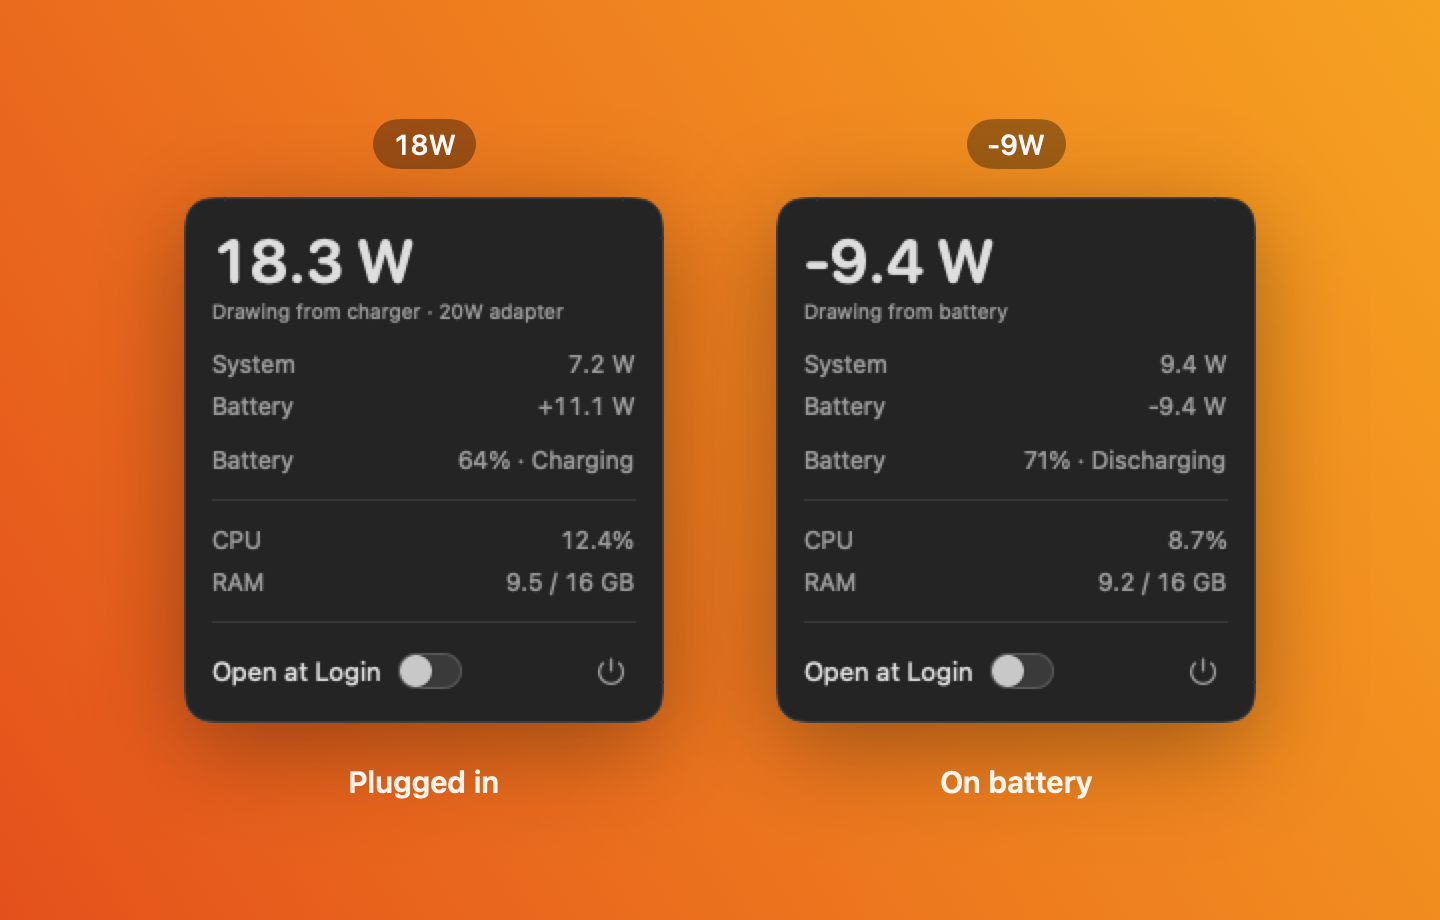
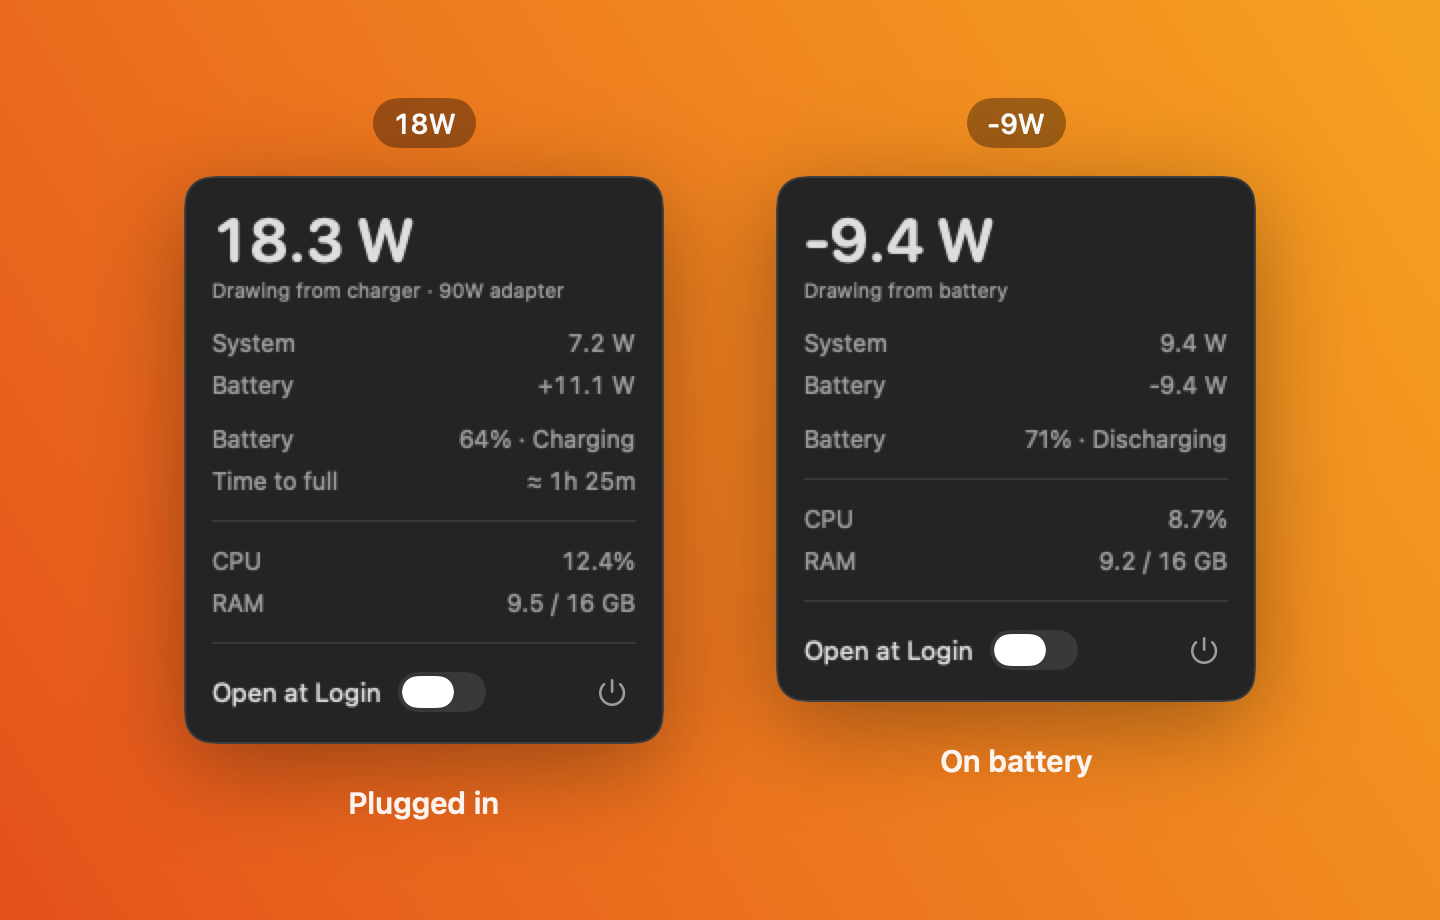
Release MacPower 1.2.0 with charging estimates

diff --git a/Sources/MacPower/PowerMonitor.swift b/Sources/MacPower/PowerMonitor.swift
@@ -13,6 +13,7 @@ struct PowerSnapshot: Equatable {
     var isCharging = false
     var isFullyCharged = false
     var batteryPercent: Int?
+    var minutesToFull: Int?
 
     /// Live power drawn from the charger.
     var adapterWatts: Double?
@@ -113,11 +114,26 @@ final class PowerMonitor: ObservableObject {
         snapshot.memoryUsedBytes = Self.readMemoryUsedBytes()
         guard let properties = Self.batteryProperties() else { return snapshot }
 
+        let powerSources = IOPSCopyPowerSourcesInfo()?.takeRetainedValue()
         snapshot.hasBattery = (properties["BatteryInstalled"] as? Bool) ?? true
-        snapshot.isPluggedIn = Self.isOnExternalPower() ?? (properties["ExternalConnected"] as? Bool) ?? false
+        snapshot.isPluggedIn = powerSources.flatMap(Self.isOnExternalPower)
+            ?? (properties["ExternalConnected"] as? Bool) ?? false
         snapshot.isCharging = (properties["IsCharging"] as? Bool) ?? false
         snapshot.isFullyCharged = (properties["FullyCharged"] as? Bool) ?? false
-        snapshot.batteryPercent = (properties["CurrentCapacity"] as? NSNumber)?.intValue
+        if let current = properties["CurrentCapacity"] as? NSNumber {
+            // Some Intel Macs report capacity in mAh instead of percent.
+            let maximum = (properties["MaxCapacity"] as? NSNumber)?.doubleValue ?? 100
+            if maximum > 0 {
+                snapshot.batteryPercent = Int((min(max(current.doubleValue / maximum, 0), 1) * 100).rounded())
+            }
+        }
+
+        if snapshot.hasBattery, snapshot.isPluggedIn, snapshot.isCharging, !snapshot.isFullyCharged {
+            snapshot.minutesToFull = Self.minutesToFull(
+                systemEstimate: powerSources.flatMap(Self.systemMinutesToFull),
+                properties: properties
+            )
+        }
 
         if let adapter = properties["AdapterDetails"] as? [String: Any] {
             snapshot.adapterRatedWatts = (adapter["Watts"] as? NSNumber)?.intValue
@@ -230,9 +246,47 @@ final class PowerMonitor: ObservableObject {
     /// Whether the Mac is running on a charger right now. Unlike the battery
     /// registry entry, this is updated the moment the cable moves.
     private static func isOnExternalPower() -> Bool? {
-        guard let info = IOPSCopyPowerSourcesInfo()?.takeRetainedValue(),
-              let type = IOPSGetProvidingPowerSourceType(info)?.takeUnretainedValue() as String? else { return nil }
+        let info = IOPSCopyPowerSourcesInfo()?.takeRetainedValue()
+        return info.flatMap(Self.isOnExternalPower)
+    }
+
+    private static func isOnExternalPower(_ info: CFTypeRef) -> Bool? {
+        guard let type = IOPSGetProvidingPowerSourceType(info)?.takeUnretainedValue() as String? else { return nil }
         return type == kIOPSACPowerValue
+    }
+
+    private static func systemMinutesToFull(_ info: CFTypeRef) -> Int? {
+        guard let sources = IOPSCopyPowerSourcesList(info)?.takeRetainedValue() as? [CFTypeRef] else { return nil }
+        for source in sources {
+            guard let description = IOPSGetPowerSourceDescription(info, source)?.takeUnretainedValue() as? [String: Any],
+                  description[kIOPSTypeKey] as? String == kIOPSInternalBatteryType,
+                  description[kIOPSIsChargingKey] as? Bool == true else { continue }
+            return (description[kIOPSTimeToFullChargeKey] as? NSNumber)?.intValue
+        }
+        return nil
+    }
+
+    private static func minutesToFull(systemEstimate: Int?, properties: [String: Any]) -> Int? {
+        if let systemEstimate, systemEstimate >= 0 { return systemEstimate }
+
+        // Raw mAh values live inside BatteryData on newer macOS versions.
+        let batteryData = properties["BatteryData"] as? [String: Any]
+        let rawCurrent = milliValue(properties["AppleRawCurrentCapacity"] ?? batteryData?["AppleRawCurrentCapacity"])
+        let rawMaximum = milliValue(properties["AppleRawMaxCapacity"] ?? batteryData?["AppleRawMaxCapacity"])
+        let remaining: Double
+        if let rawCurrent, let rawMaximum, rawCurrent >= 0, rawMaximum > rawCurrent {
+            remaining = rawMaximum - rawCurrent
+        } else if let current = milliValue(properties["CurrentCapacity"]),
+                  let maximum = milliValue(properties["MaxCapacity"]), maximum > 100,
+                  current >= 0, maximum > current {
+            remaining = maximum - current
+        } else {
+            return nil
+        }
+
+        // Estimate at the averaged battery current to avoid swings from instant readings.
+        guard let milliamps = milliValue(properties["Amperage"]), milliamps > 0 else { return nil }
+        return Int(exactly: (remaining / milliamps * 60).rounded(.up))
     }
 
     private static func adapterWatts(telemetry: [String: Any]) -> Double? {

diff --git a/scripts/render-docs/Sources/render-docs/main.swift b/scripts/render-docs/Sources/render-docs/main.swift
@@ -36,7 +36,7 @@ func render<V: View>(_ view: V, name: String) {
 /// which ImageRenderer cannot draw.
 @MainActor
 func renderHosted<V: View>(_ view: V) -> NSImage {
-    let host = NSHostingView(rootView: view.environment(\.colorScheme, .dark))
+    let host = NSHostingView(rootView: view.environment(\.colorScheme, .dark).environment(\.displayScale, 2))
     host.frame = CGRect(origin: .zero, size: host.fittingSize)
     let window = NSWindow(contentRect: host.frame, styleMask: .borderless, backing: .buffered, defer: false)
     window.appearance = NSAppearance(named: .darkAqua)
@@ -44,7 +44,19 @@ func renderHosted<V: View>(_ view: V) -> NSImage {
     window.isOpaque = false
     window.contentView = host
     host.layoutSubtreeIfNeeded()
-    let rep = host.bitmapImageRepForCachingDisplay(in: host.bounds)!
+    let rep = NSBitmapImageRep(
+        bitmapDataPlanes: nil,
+        pixelsWide: Int((host.bounds.width * 2).rounded(.up)),
+        pixelsHigh: Int((host.bounds.height * 2).rounded(.up)),
+        bitsPerSample: 8,
+        samplesPerPixel: 4,
+        hasAlpha: true,
+        isPlanar: false,
+        colorSpaceName: .deviceRGB,
+        bytesPerRow: 0,
+        bitsPerPixel: 0
+    )!
+    rep.size = host.bounds.size
     host.cacheDisplay(in: host.bounds, to: rep)
     let image = NSImage(size: host.bounds.size)
     image.addRepresentation(rep)
@@ -81,8 +93,9 @@ plugged.hasBattery = true
 plugged.isPluggedIn = true
 plugged.isCharging = true
 plugged.batteryPercent = 64
+plugged.minutesToFull = 85
 plugged.adapterWatts = 18.3
-plugged.adapterRatedWatts = 20
+plugged.adapterRatedWatts = 90
 plugged.systemWatts = 7.2
 plugged.batteryWatts = 11.1
 plugged.cpuPercent = 12.4
@@ -137,6 +150,29 @@ func renderHero() {
         }
         .frame(width: 720, height: 460),
         name: "hero.png")
+}
+
+@MainActor
+func renderScreenshot() {
+    let panel = renderHosted(Panel(monitor: PowerMonitor(fixed: plugged)))
+    render(
+        ZStack {
+            LinearGradient(colors: [Color(hex: 0x202855), Color(hex: 0x514A9D), Color(hex: 0x3676A8)],
+                           startPoint: .bottomLeading, endPoint: .topTrailing)
+            VStack(spacing: 14) {
+                Text(plugged.menuBarTitle)
+                    .font(.system(size: 14, weight: .medium))
+                    .monospacedDigit()
+                    .foregroundStyle(.white)
+                    .padding(.horizontal, 10)
+                    .padding(.vertical, 4)
+                    .background(Capsule().fill(Color.black.opacity(0.35)))
+                Image(nsImage: panel)
+                    .shadow(color: .black.opacity(0.35), radius: 24, y: 12)
+            }
+        }
+        .frame(width: 440, height: 400),
+        name: "screenshot.png")
 }
 
 // MARK: - Install steps
@@ -302,10 +338,15 @@ func renderMenuBar() {
 
 MainActor.assumeIsolated {
     if !CommandLine.arguments.contains("--install-only") {
+        renderScreenshot()
         renderHero()
-        renderMenuBar()
+        if !CommandLine.arguments.contains("--screenshots-only") {
+            renderMenuBar()
+        }
     }
-    render(DragStep(), name: "install-1-drag.png")
-    render(BlockedStep(), name: "install-2-blocked.png")
-    render(OpenAnywayStep(), name: "install-3-open-anyway.png")
+    if !CommandLine.arguments.contains("--screenshots-only") {
+        render(DragStep(), name: "install-1-drag.png")
+        render(BlockedStep(), name: "install-2-blocked.png")
+        render(OpenAnywayStep(), name: "install-3-open-anyway.png")
+    }
 }

diff --git a/Sources/MacPower/StatusMenuView.swift b/Sources/MacPower/StatusMenuView.swift
@@ -20,7 +20,16 @@ struct StatusMenuView: View {
                 }
             }
 
-            batteryLine
+            if snapshot.hasBattery {
+                VStack(spacing: 6) {
+                    batteryLine
+
+                    if let minutes = snapshot.minutesToFull {
+                        usageDetail("Time to full", value: chargeTime(minutes))
+                            .help("Estimated charging time. It can change as the charging rate changes.")
+                    }
+                }
+            }
 
             Divider()
 
@@ -107,7 +116,7 @@ struct StatusMenuView: View {
 
     @ViewBuilder
     private var batteryLine: some View {
-        if snapshot.hasBattery, let percent = snapshot.batteryPercent {
+        if let percent = snapshot.batteryPercent {
             HStack(spacing: 4) {
                 Text("Battery")
                 Spacer()
@@ -122,6 +131,16 @@ struct StatusMenuView: View {
         if snapshot.isCharging { return "Charging" }
         if snapshot.isFullyCharged { return "Charged" }
         return snapshot.isPluggedIn ? "On adapter" : "Discharging"
+    }
+
+    private func chargeTime(_ minutes: Int) -> String {
+        guard minutes > 0 else { return "<1 min" }
+        let formatter = DateComponentsFormatter()
+        formatter.allowedUnits = [.hour, .minute]
+        formatter.unitsStyle = .abbreviated
+        formatter.zeroFormattingBehavior = .dropAll
+        let duration = formatter.string(from: Double(minutes) * 60) ?? "\(minutes) min"
+        return "≈ \(duration)"
     }
 
     private func detail(_ label: String, watts: Double?, signed: Bool = false) -> some View {

diff --git a/README.md b/README.md
@@ -13,7 +13,7 @@
   &nbsp;·&nbsp;
   <a href="https://github.com/atishay1743/MacPower/releases/latest">Release notes</a>
   <br><br>
-  <a href="https://github.com/atishay1743/MacPower/releases/latest"><img alt="Version 1.1.0" src="https://img.shields.io/badge/version-1.1.0-blue"></a>
+  <a href="https://github.com/atishay1743/MacPower/releases/latest"><img alt="Version 1.2.0" src="https://img.shields.io/badge/version-1.2.0-blue"></a>
   <img alt="macOS 14+" src="https://img.shields.io/badge/macOS-14%2B-black?logo=apple">
   <img alt="Swift" src="https://img.shields.io/badge/Swift-5.9-F05138?logo=swift&logoColor=white">
   <a href="LICENSE"><img alt="MIT license" src="https://img.shields.io/badge/license-MIT-blue"></a>
@@ -23,12 +23,12 @@ macOS has no built-in live wattage display, so MacPower reads it from IOKit and 
 
 - **Plugged in:** the menu bar shows live charger draw, e.g. `18W`
 - **Unplugged:** it shows what the machine is pulling from the battery, as a negative, e.g. `-9W`
-- **Click it:** the same figure in large type (e.g. `-9.4 W`, *Drawing from battery*), plus the system vs. battery split, battery percentage and state, overall CPU usage, and RAM used out of total memory. The dropdown shows the same information whether you're plugged in or not.
+- **Click it:** the same figure in large type (e.g. `-9.4 W`, *Drawing from battery*), plus the system vs. battery split, battery percentage and state, overall CPU usage, and RAM used out of total memory. While actively charging, the dropdown also shows an estimated time to full when enough battery data is available.
 
 Readings refresh every five seconds to keep the numbers easy to follow. Plugging or unplugging the charger still updates the power state immediately.
 
 <p align="center">
-  <img src="docs/screenshot.png" alt="MacPower 1.1.0 showing power draw, CPU usage and RAM usage on a blue and violet macOS-style desktop" width="720">
+  <img src="docs/screenshot.png" alt="MacPower showing a battery charging at 64% with an estimated 1 hour and 25 minutes to full" width="640">
 </p>
 
 Requires macOS 14 or later on a Mac with a battery.
@@ -59,7 +59,7 @@ The wattage should appear in your menu bar right away. Turn on **Open at Login**
 
 If you would rather not bypass Gatekeeper at all, [build it from source](#build-from-source). A copy you build yourself is never quarantined.
 
-> The screenshot uses the app's real dropdown rendered with sample readings on an illustrated desktop. Install images are simplified illustrations; the exact wording and layout of the macOS dialogs vary slightly between versions.
+> The screenshot uses the app’s dropdown with sample readings. The install illustrations may differ slightly from the macOS dialogs on your Mac.
 
 ## Uninstall
 
@@ -113,7 +113,8 @@ Live wattage is read from the System Management Controller (SMC), the chip the n
 | Battery | SMC `PPBR`, negative when draining | W |
 | Plugged in or not | `IOPSCopyPowerSourcesInfo`, plus a change notification | |
 | Adapter rating | `AdapterDetails.Watts` | W |
-| Battery percent | `CurrentCapacity` | % |
+| Battery percent | `CurrentCapacity` relative to `MaxCapacity` | % |
+| Time to full | macOS estimate or remaining charge divided by averaged battery current | min |
 | CPU | Change in Mach `HOST_CPU_LOAD_INFO` busy ticks across all cores | % (0–100) |
 | RAM | Mach `HOST_VM_INFO64`: non-purgeable internal + wired + compressed pages; total from `physicalMemory` | GB (1024³ bytes) |
 
@@ -129,7 +130,7 @@ So the app does three things:
 - Listens for the system's power-source change notification and re-reads immediately when the charger is plugged or unplugged. The next reading follows five seconds later so the sensors have time to settle without a burst of updates.
 - Takes the plug state from the real-time power-source API, not the registry, and shows `--` rather than a number that cannot be right for that state (for example `0W` on a connected charger).
 
-The registry is only a fallback on Macs without these SMC sensors, and each value is used only if it fits the current plug state. On those Macs the lag can still appear.
+For live wattage, the registry is a fallback on Macs without these SMC sensors. MacPower also uses registry readings to estimate charging time when macOS has no estimate. This fallback assumes the current charge rate continues, so it can change as charging slows near full.
 
 Two more notes:
 
